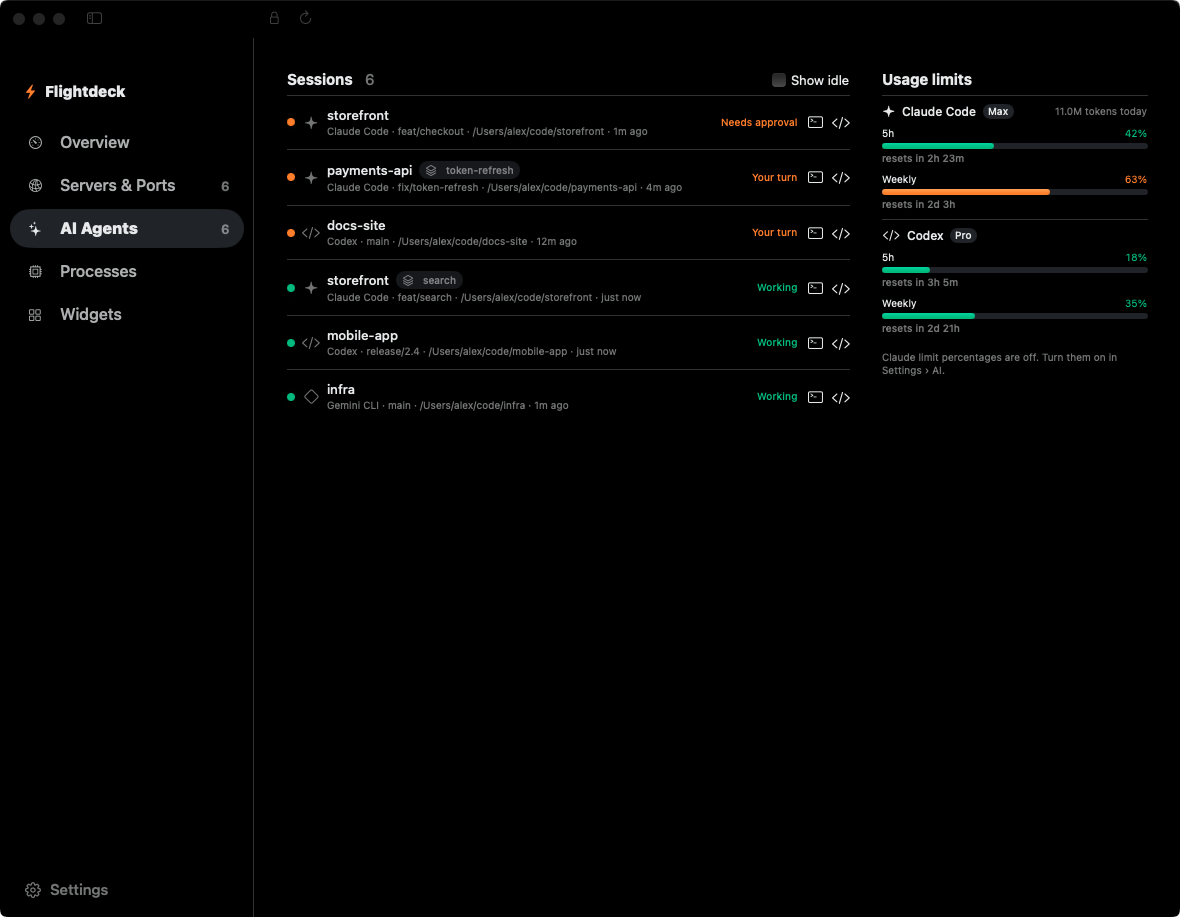
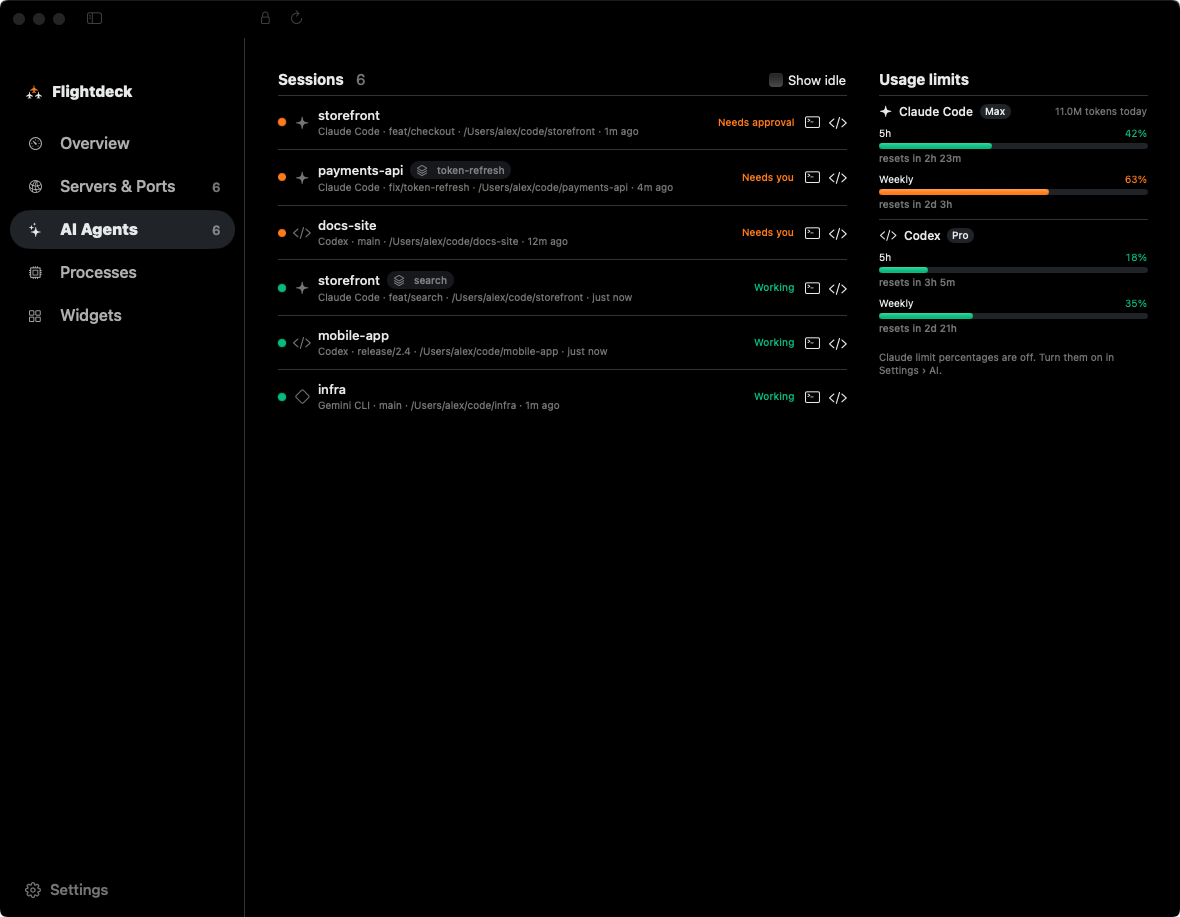
Retake screenshots with the Needs you label
- Retake all five demo screenshots so they show "Needs you" instead of "Your turn"
- Copy them into docs/screenshots and site/public/screenshots
- Match the site's menu bar panel image size to the new capture
- Update the README overview alt text

diff --git a/site/app/page.tsx b/site/app/page.tsx
@@ -104,8 +104,8 @@ export default function Home() {
             className="shot shot-panel"
             src="/screenshots/menu-bar-panel.png"
             alt="Flightdeck menu bar panel"
-            width={410}
-            height={860}
+            width={380}
+            height={739}
           />
         </section>
 

diff --git a/README.md b/README.md
@@ -29,7 +29,7 @@ brew install --cask magnuspladsen/tap/flightdeck
 
 <br>
 
-<img src="docs/screenshots/overview.png" alt="Flightdeck overview: the agent that needs you, resources, and your-turn agents" width="860">
+<img src="docs/screenshots/overview.png" alt="Flightdeck overview: the agent that needs you, resources, and the Needs you list" width="860">
 
 </div>
 
